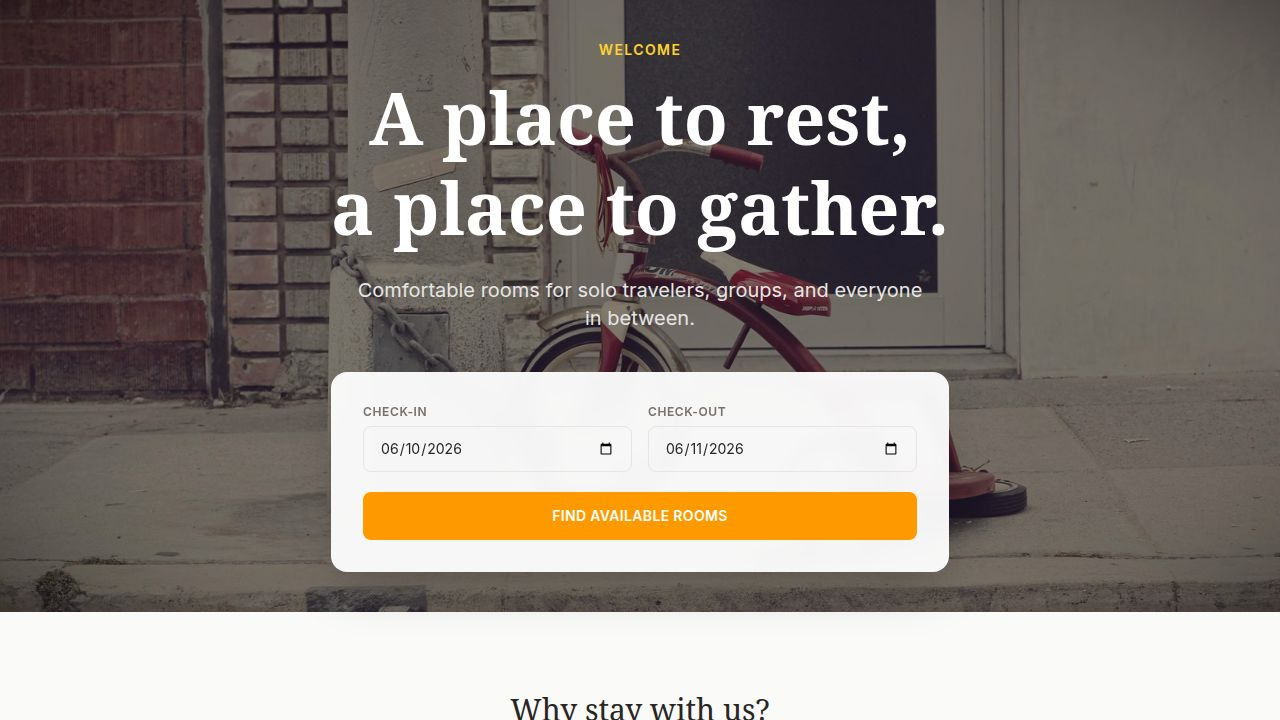
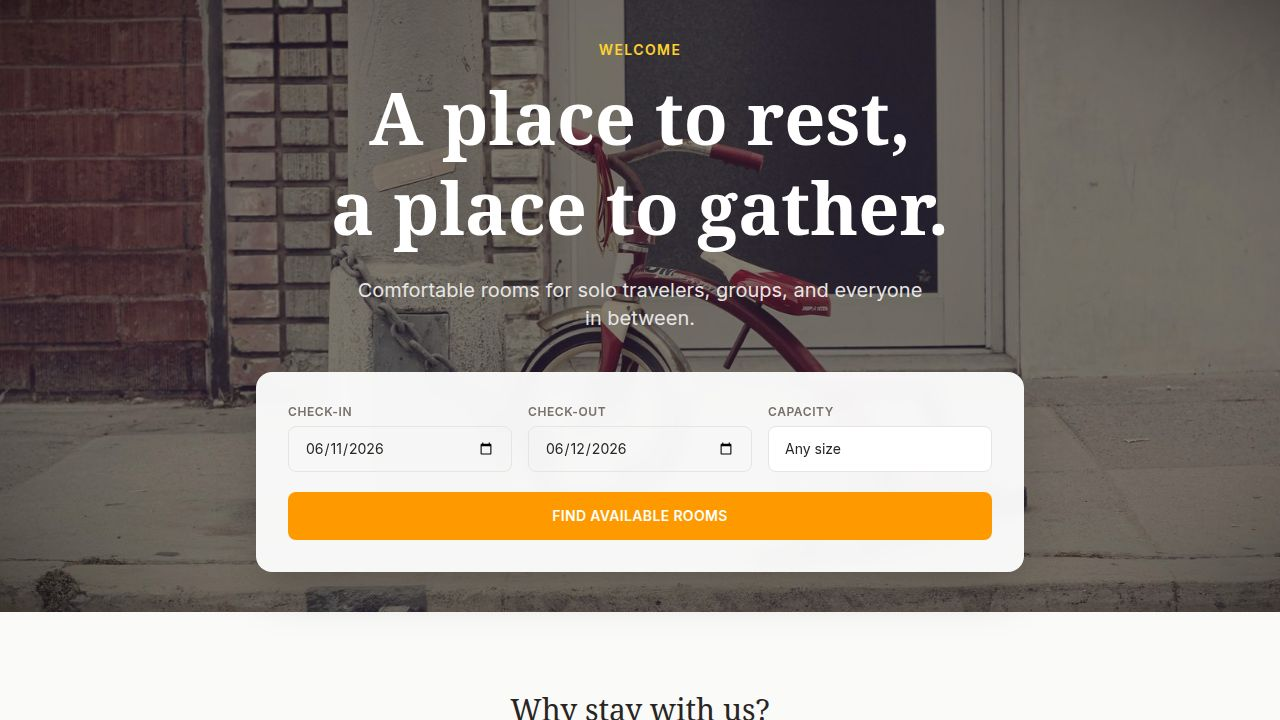
Organize application pages into logical folders and update all references
Refactors the application structure by organizing page components into sub-folders within `src/pages/` and updating all corresponding import paths in `App.tsx` and individual page components. Also includes fixes for pre-existing type errors related to query hooks and the `react-razorpay` library.

Replit-Commit-Author: Agent
Replit-Commit-Session-Id: 4943d8a2-c39d-4ed5-ada8-96503bc0b751
Replit-Commit-Checkpoint-Type: full_checkpoint
Replit-Commit-Event-Id: ef6b8e26-0d38-4408-a21d-31c23643158f
Replit-Commit-Screenshot-Url: https://storage.googleapis.com/screenshot-production-us-central1/f5237391-1bca-4196-b60d-a1d9fa9b4c22/4943d8a2-c39d-4ed5-ada8-96503bc0b751/F16hmMn
Replit-Helium-Checkpoint-Created: true

diff --git a/artifacts/room-booking/src/App.tsx b/artifacts/room-booking/src/App.tsx
@@ -1,12 +1,12 @@
 import { Switch, Route, Router as WouterRouter } from "wouter";
 import { QueryClient, QueryClientProvider } from "@tanstack/react-query";
 import NotFound from "@/pages/not-found";
-import HomePage from "@/pages/HomePage";
-import RoomsPage from "@/pages/RoomsPage";
-import RoomDetailPage from "@/pages/RoomDetailPage";
-import BookingConfirmPage from "@/pages/BookingConfirmPage";
-import BookingSuccessPage from "@/pages/BookingSuccessPage";
-import AdminPage from "@/pages/AdminPage";
+import HomePage from "@/pages/home/HomePage";
+import RoomsPage from "@/pages/rooms/RoomsPage";
+import RoomDetailPage from "@/pages/rooms/RoomDetailPage";
+import BookingConfirmPage from "@/pages/booking/BookingConfirmPage";
+import BookingSuccessPage from "@/pages/booking/BookingSuccessPage";
+import AdminPage from "@/pages/admin/AdminPage";
 
 const queryClient = new QueryClient();
 